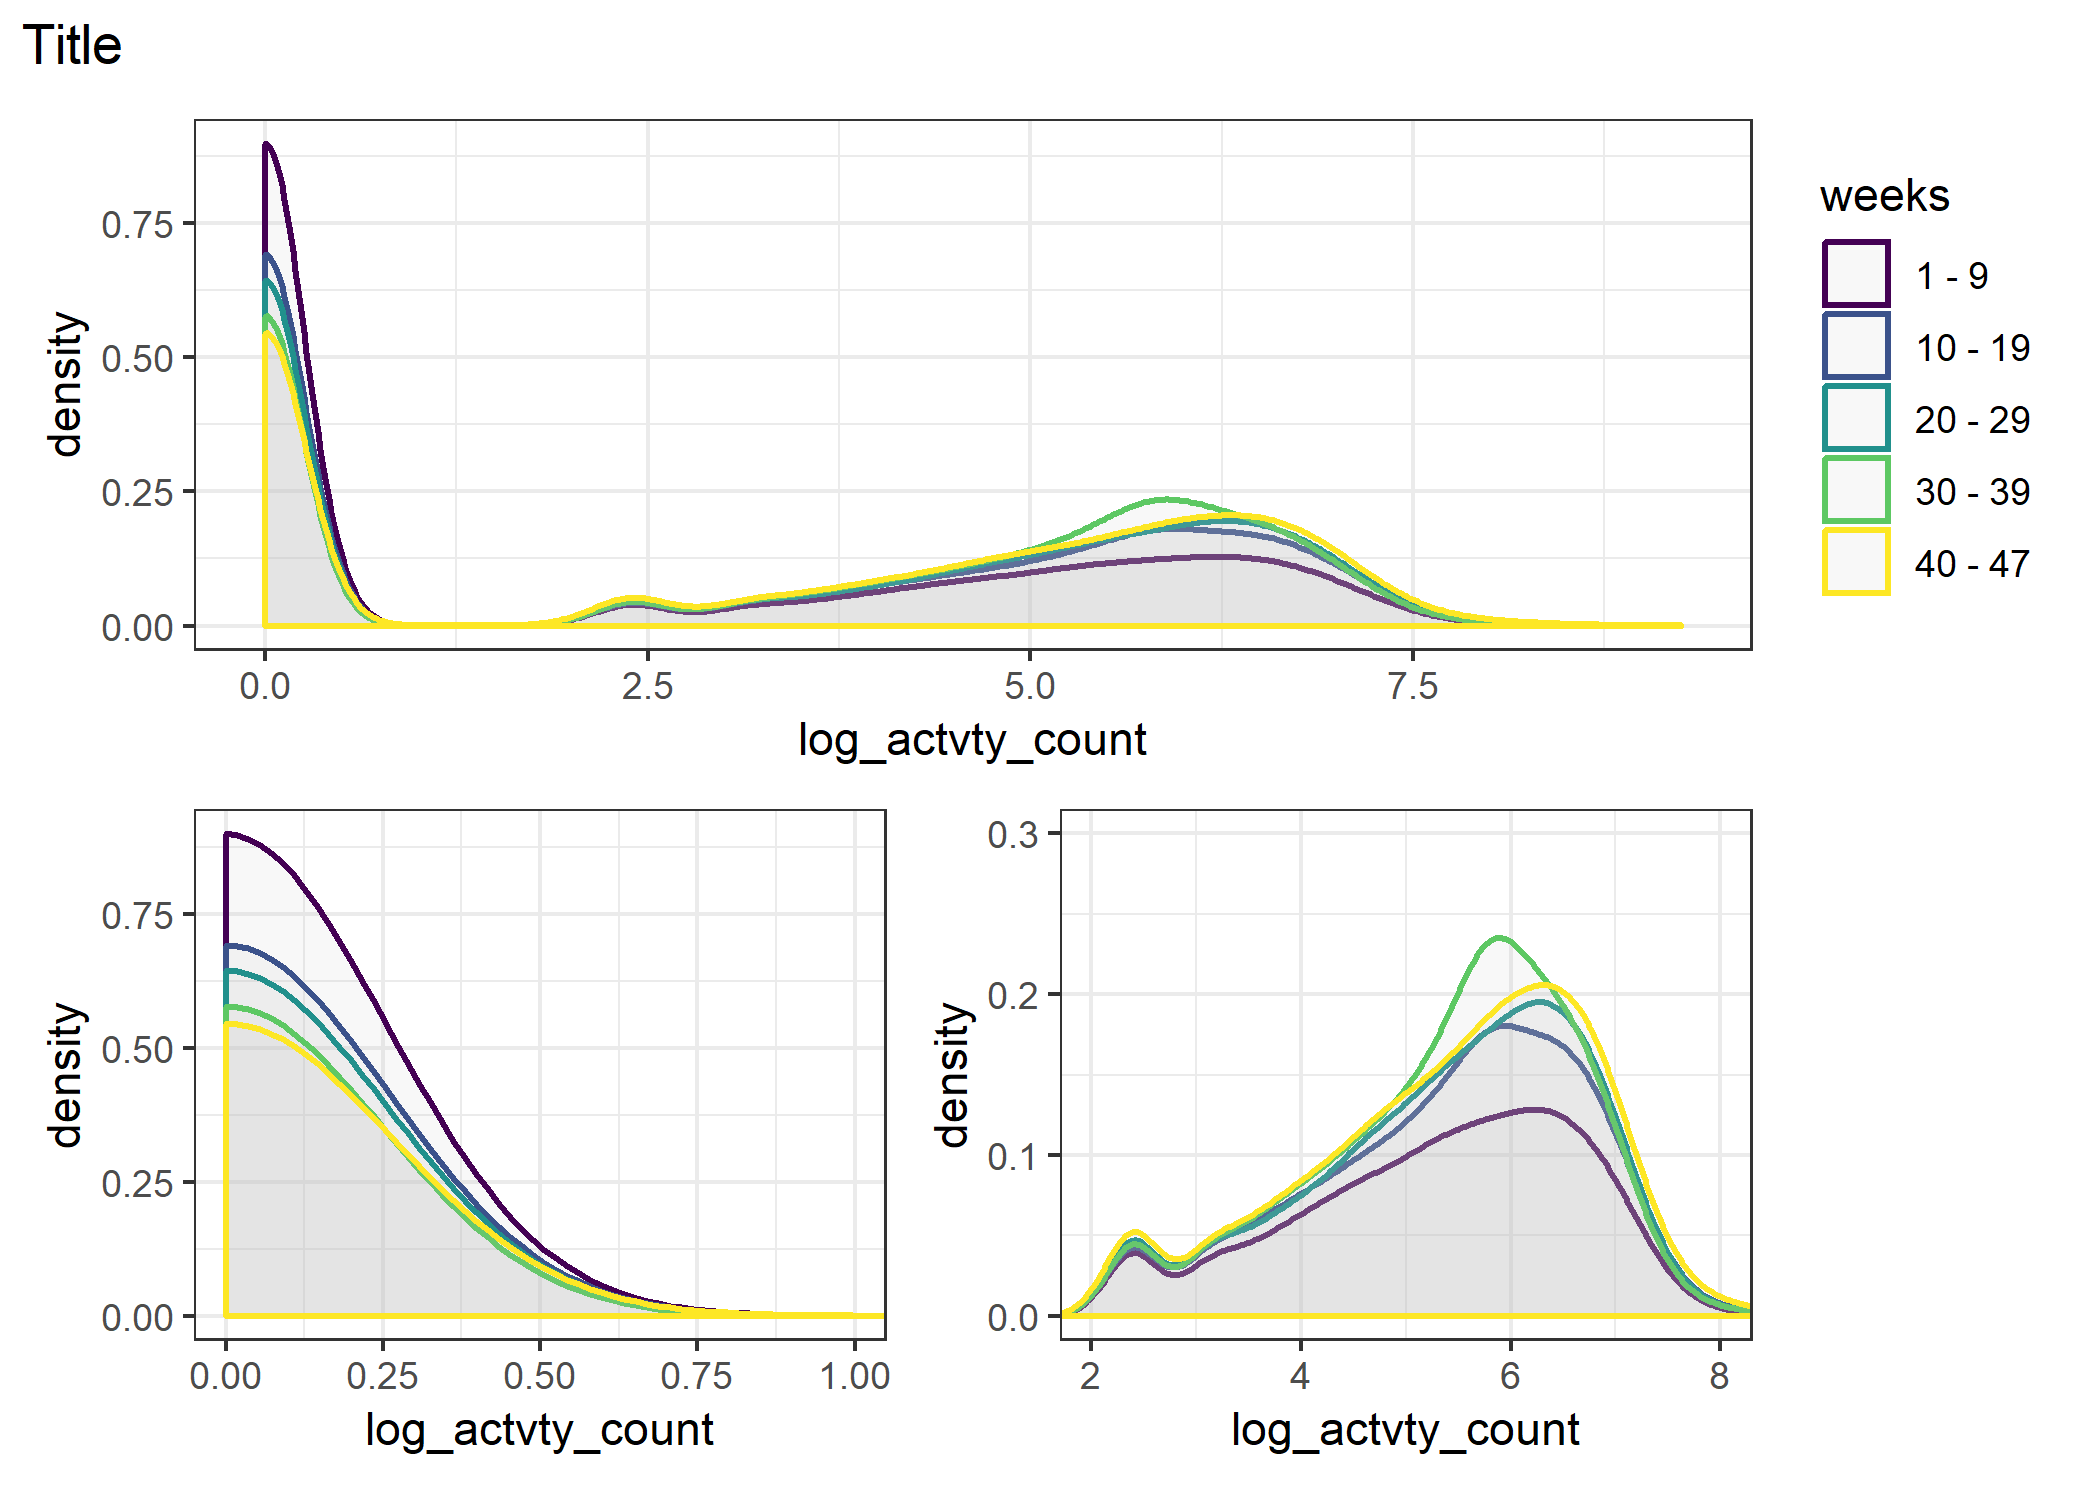
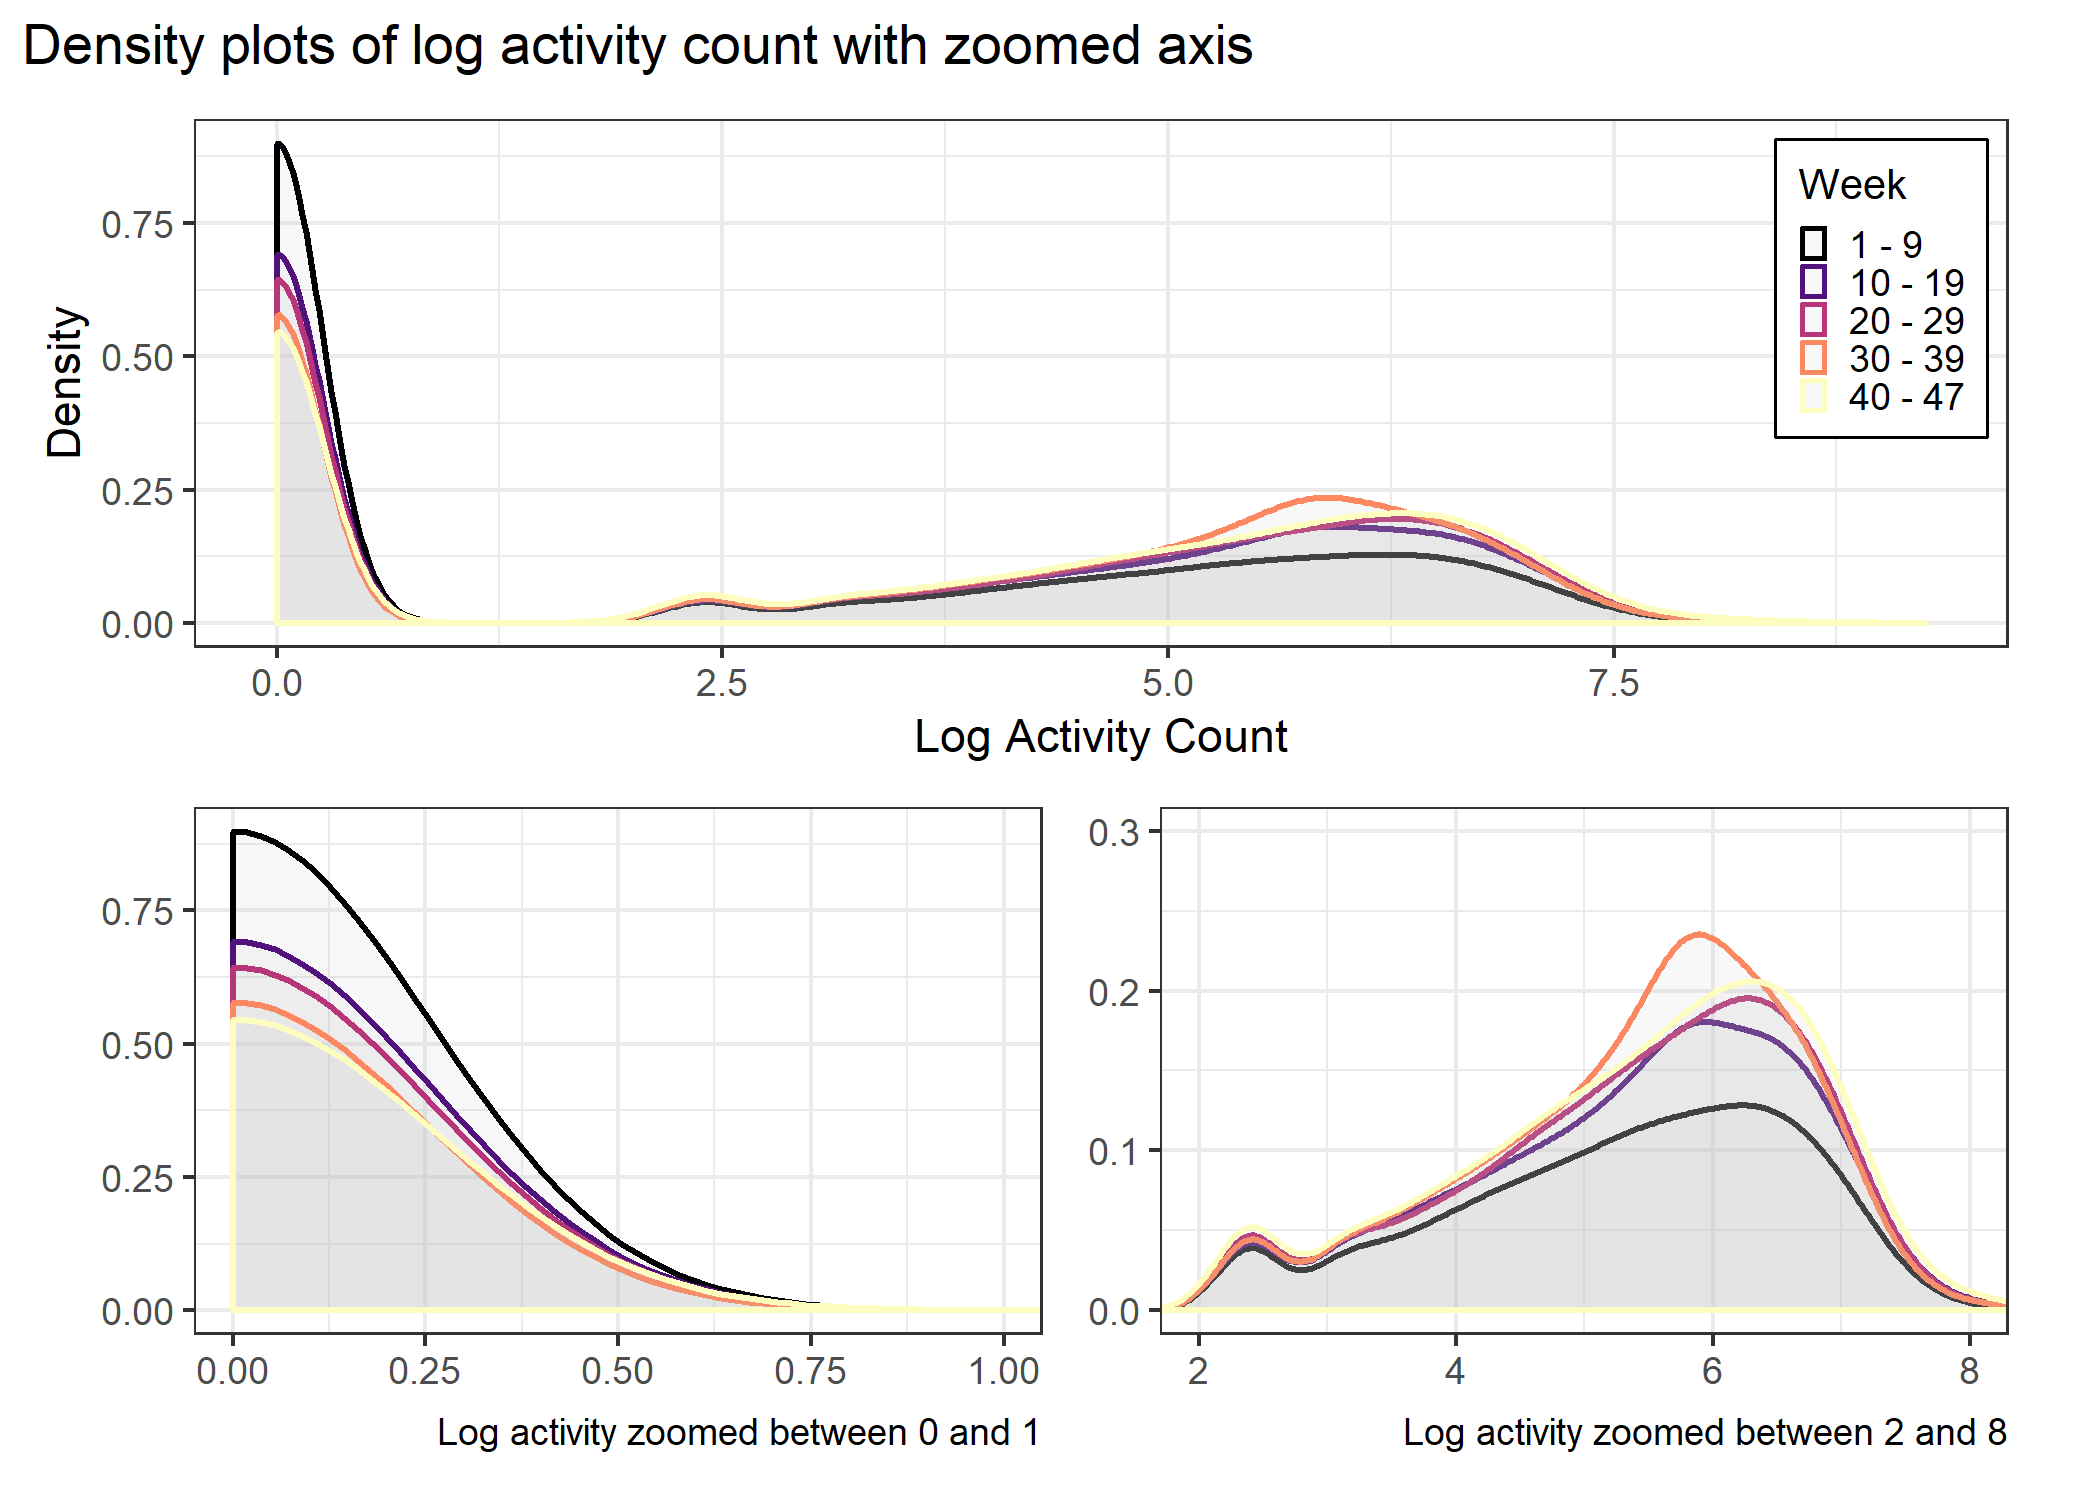
finished zoomed density plots

diff --git a/p8105_mtp_ntw2117.md b/p8105_mtp_ntw2117.md
@@ -16,8 +16,8 @@ Cleaning data
 ``` r
 accel_data <- accel_data %>% 
   gather(key = "minute", value = "activity_count", activity_1:activity_1440) %>% 
-  separate(minute, into = c("drop", "minute"), sep = "_") %>% 
-  select(-drop) %>% 
+  separate(minute, into = c("axe", "minute"), sep = "_") %>% 
+  select(-axe) %>% 
   mutate(day = as_factor(day), 
          day = fct_relevel(day, c("Sunday", "Monday", "Tuesday", "Wednesday", 
                                   "Thursday", "Friday", "Saturday")),
@@ -28,7 +28,14 @@ accel_data <- accel_data %>%
                                        1261, 1321, 1381, 1441), 
                     labels = c(1, 2, 3, 4, 5, 6, 7, 8, 9, 10, 11, 12, 
                                13, 14, 15, 16, 17, 18, 19, 20, 21, 22, 23, 24)
-         )
+         ), 
+         week_fct = as.factor(week), 
+         week_fct = fct_collapse(week_fct, 
+                              "1 - 9" = c("1", "2", "3", "4", "5", "6", "7", "8", "9"), 
+                              "10 - 19" = c("10", "11", "12", "13", "14", "15", "16", "17", "18", "19"), 
+                              "20 - 29" = c("20", "21", "22", "23", "24", "25", "26", "27", "28", "29"), 
+                              "30 - 39" = c("30", "31", "32", "33", "34", "35", "36", "37", "38", "39"), 
+                              "40 - 47" = c("40", "41", "42", "43", "44", "45", "46", "47"))
   )
 ```
 
@@ -36,57 +43,49 @@ accel_data <- accel_data %>%
 
 ``` r
 density_full <- accel_data %>% 
-  mutate(log_actvty_count = log(activity_count),
-         week = as.factor(week), 
-         weeks = fct_collapse(week, 
-                              "1 - 9" = c("1", "2", "3", "4", "5", "6", "7", "8", "9"), 
-                              "10 - 19" = c("10", "11", "12", "13", "14", "15", "16", "17", "18", "19"), 
-                              "20 - 29" = c("20", "21", "22", "23", "24", "25", "26", "27", "28", "29"), 
-                              "30 - 39" = c("30", "31", "32", "33", "34", "35", "36", "37", "38", "39"), 
-                              "40 - 47" = c("40", "41", "42", "43", "44", "45", "46", "47"))) %>% 
-  ggplot(aes(x = log_actvty_count, color = weeks)) +
+  mutate(log_actvty_count = log(activity_count)) %>% 
+  ggplot(aes(x = log_actvty_count, color = week_fct)) +
   geom_density(size = 0.75, fill = "grey", alpha = 0.1) + 
-  viridis::scale_color_viridis(discrete = TRUE)
+  viridis::scale_color_viridis(discrete = TRUE, 
+                               name = "Week", 
+                               option = "magma") + 
+  labs(x = "Log Activity Count", 
+       y = "Density") + 
+  theme(legend.position = c(.93, .68), 
+        legend.key.size = unit(.1, "in"),
+        legend.title = element_text(size = 10), 
+        legend.background = element_blank(), 
+        legend.box.background = element_rect(color = "black"))
 
 density_zoom_1 <- accel_data %>% 
-  mutate(log_actvty_count = log(activity_count),
-         week = as.factor(week), 
-         weeks = fct_collapse(week, 
-                              "1 - 9" = c("1", "2", "3", "4", "5", "6", "7", "8", "9"), 
-                              "10 - 19" = c("10", "11", "12", "13", "14", "15", "16", "17", "18", "19"), 
-                              "20 - 29" = c("20", "21", "22", "23", "24", "25", "26", "27", "28", "29"), 
-                              "30 - 39" = c("30", "31", "32", "33", "34", "35", "36", "37", "38", "39"), 
-                              "40 - 47" = c("40", "41", "42", "43", "44", "45", "46", "47"))) %>% 
-  ggplot(aes(x = log_actvty_count, color = weeks)) +
+  mutate(log_actvty_count = log(activity_count)) %>% 
+  ggplot(aes(x = log_actvty_count, color = week_fct)) +
   geom_density(size = 0.75, fill = "grey", alpha = 0.1) + 
   coord_cartesian(xlim = c(0, 1)) + 
   viridis::scale_color_viridis(discrete = TRUE, 
-                               guide = FALSE)
+                               guide = FALSE, 
+                               option = "magma") + 
+  labs(caption = "Log activity zoomed between 0 and 1") + 
+  theme(axis.title.x = element_blank(), 
+        axis.title.y = element_blank())
 
 density_zoom_2 <- accel_data %>% 
-  mutate(log_actvty_count = log(activity_count),
-         week = as.factor(week), 
-         weeks = fct_collapse(week, 
-                              "1 - 9" = c("1", "2", "3", "4", "5", "6", "7", "8", "9"), 
-                              "10 - 19" = c("10", "11", "12", "13", "14", "15", "16", "17", "18", "19"), 
-                              "20 - 29" = c("20", "21", "22", "23", "24", "25", "26", "27", "28", "29"), 
-                              "30 - 39" = c("30", "31", "32", "33", "34", "35", "36", "37", "38", "39"), 
-                              "40 - 47" = c("40", "41", "42", "43", "44", "45", "46", "47"))) %>% 
-  ggplot(aes(x = log_actvty_count, color = weeks)) +
+  mutate(log_actvty_count = log(activity_count)) %>% 
+  ggplot(aes(x = log_actvty_count, color = week_fct)) +
   geom_density(size = 0.75, fill = "grey", alpha = 0.1) + 
   coord_cartesian(xlim = c(2, 8), ylim = c(0, 0.3)) + 
   viridis::scale_color_viridis(discrete = TRUE, 
-                               guide = FALSE)
+                               guide = FALSE, 
+                               option = "magma") +  
+  labs(caption = "Log activity zoomed between 2 and 8") + 
+  theme(axis.title.x = element_blank(), 
+        axis.title.y = element_blank())
 
-wrap_elements(density_full / (density_zoom_1 + density_zoom_2)) + ggtitle("Title")
+wrap_elements(density_full / (density_zoom_1 + density_zoom_2)) + 
+  ggtitle("Density plots of log activity count with zoomed axis")
 ```
 
-<img src="p8105_mtp_ntw2117_files/figure-markdown_github/unnamed-chunk-1-1.png" width="100%" />
-
-``` r
-# maybe split up these density plots so they are zoomed in on different ranges of valueswee
-# explore the use of the geometric mean
-```
+<img src="p8105_mtp_ntw2117_files/figure-markdown_github/unnamed-chunk-1-1.png" width="80%" style="display: block; margin: auto;" />
 
 ``` r
 med_actvty_all_days <- accel_data %>% 
